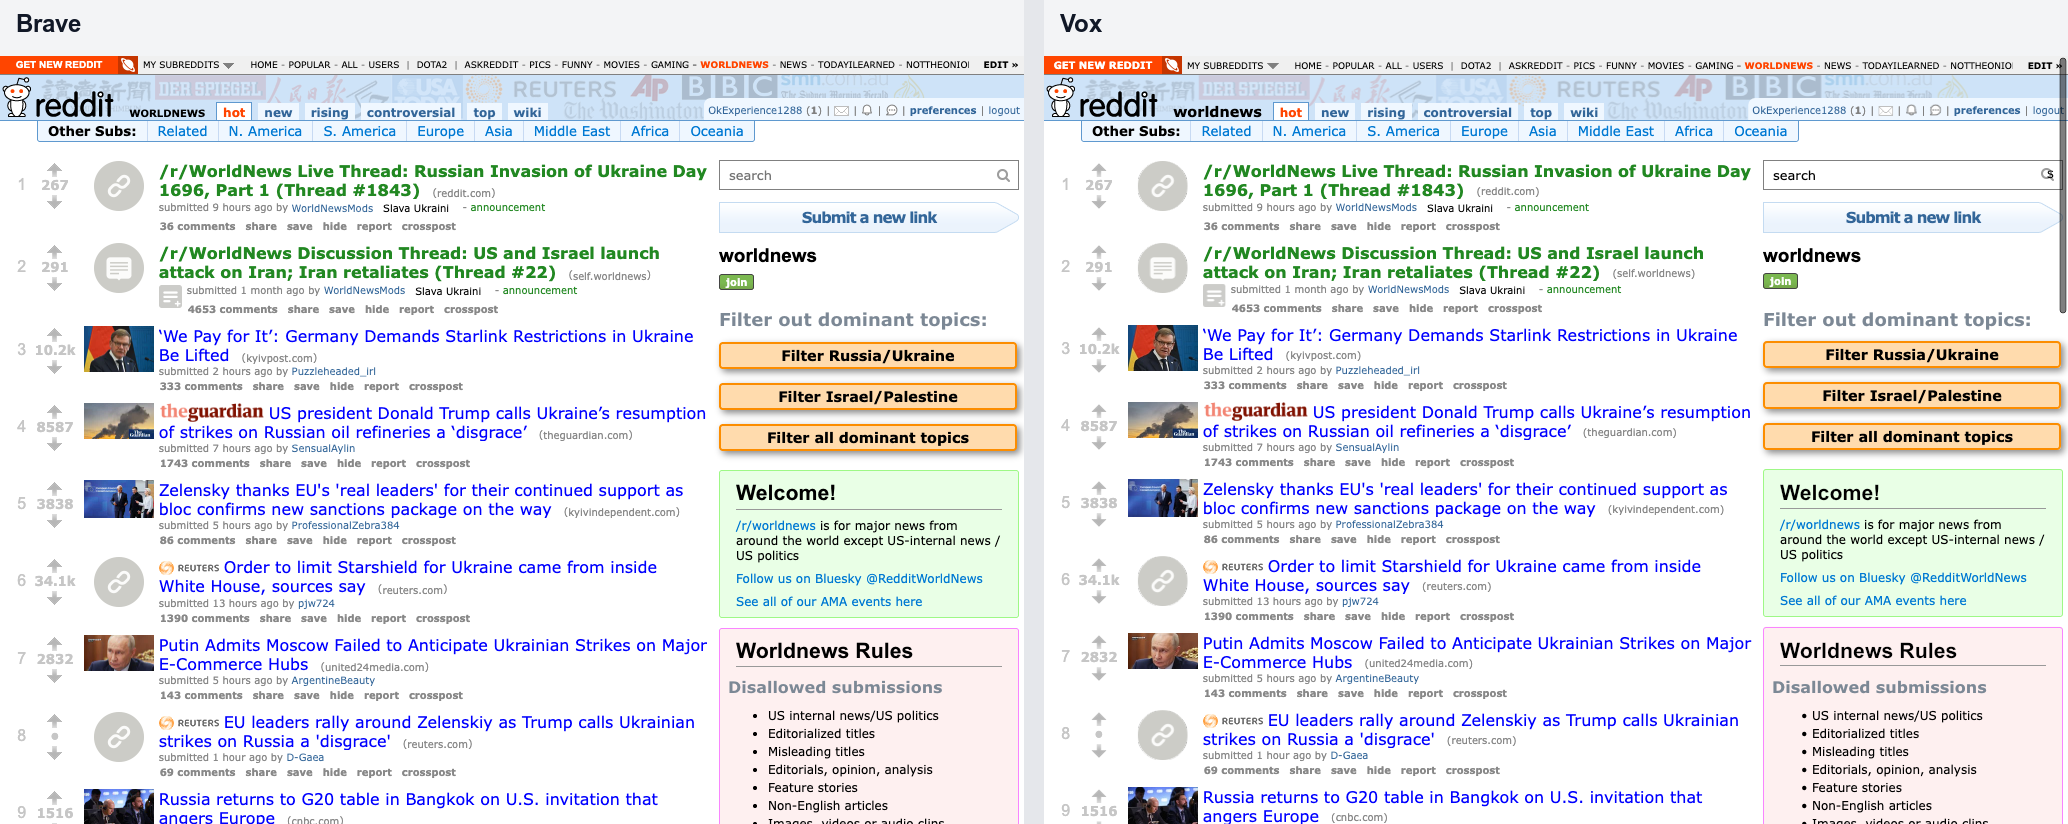
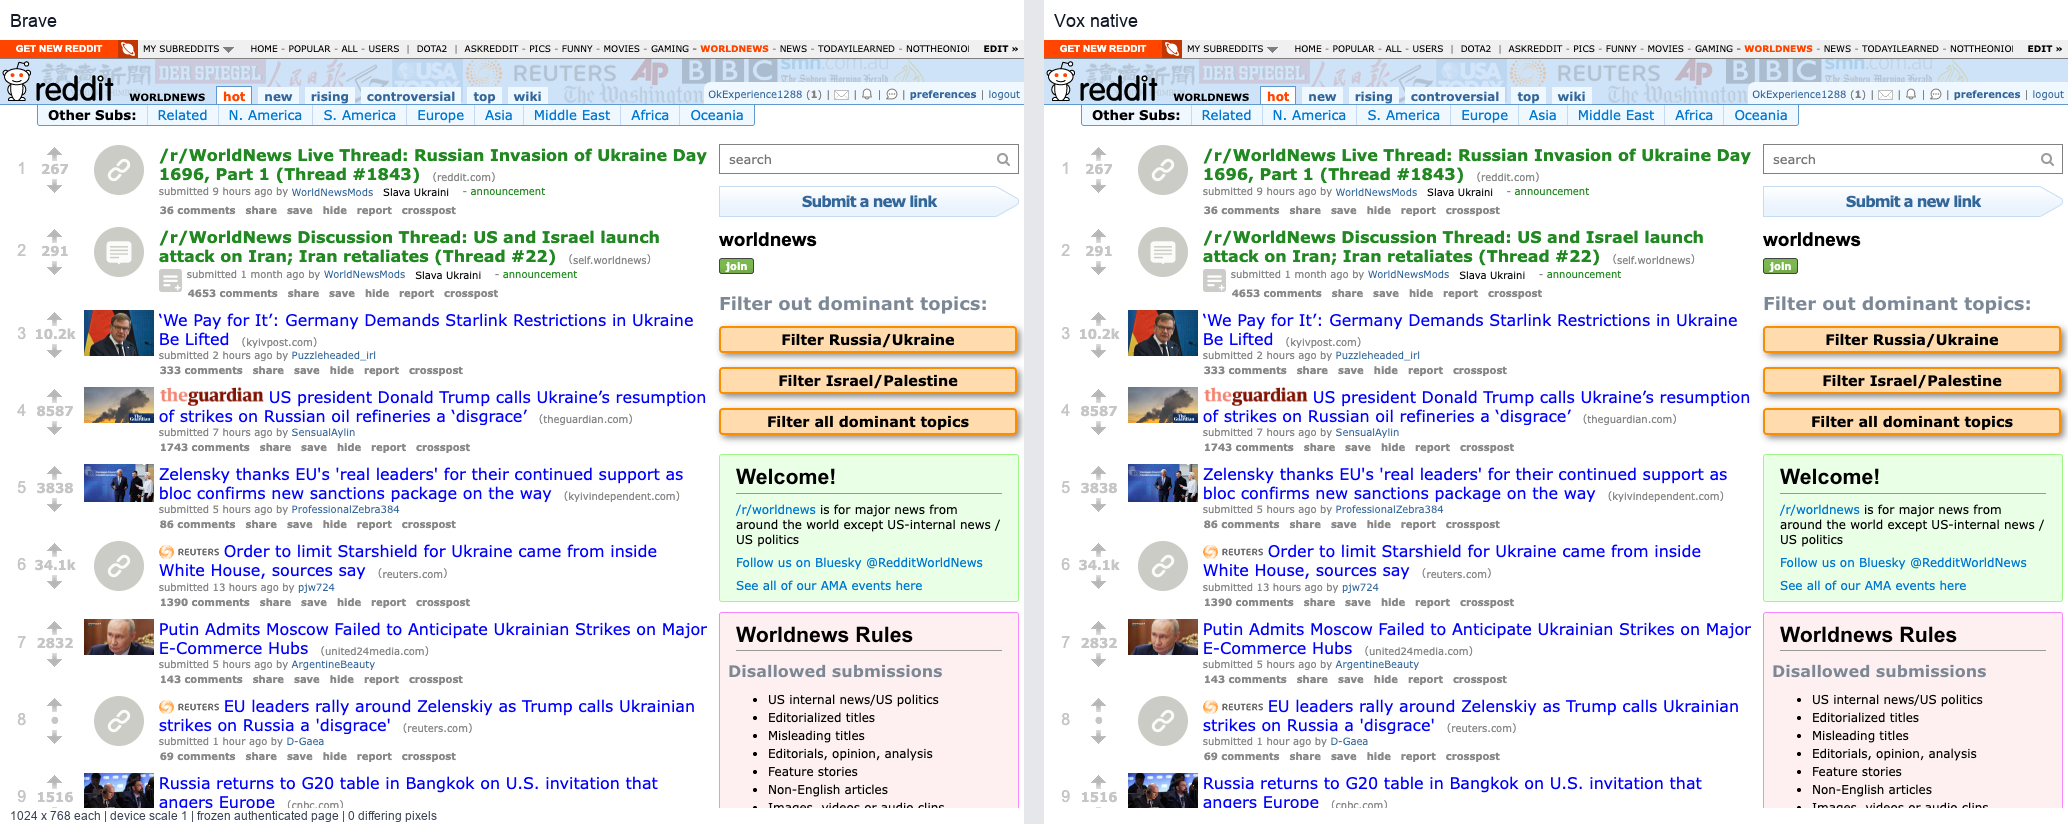
Document exact Brave parity for the captured Reddit viewport

diff --git a/docs/OLD_REDDIT_BRAVE_PARITY.md b/docs/OLD_REDDIT_BRAVE_PARITY.md
@@ -1,19 +1,89 @@
 # Old Reddit rendering against Brave
 
-**Exact Brave pixel equality remains unachieved.** The authenticated, frozen
-1024×768 comparison differs at 141,439 of 786,432 pixels (17.9849%).
-The comparison uses the native V renderer. No reference image is substituted
-for the rendered page, and no existing screenshot tolerance is increased.
+The signed production Vox renderer matches the authenticated frozen Brave
+reference at **every pixel: 0 / 786,432 differences**. Both document viewports
+are 1024×768 at device scale 1. The comparison includes the full viewport,
+with exact RGBA equality and no tolerance or excluded regions.
 
 ![Brave on the left and Vox on the right](images/old-reddit-brave-vox.png)
 
+## Scope and reproduction
+
+The reference is Brave 155.1.97.57 on macOS. The authenticated Brave DOM was
+frozen, executable script elements removed, and its original document base URL
+installed. Both browsers render that same HTML with its styles and resources.
+This keeps changing post scores and timestamps out of the comparison. The
+result establishes equality for this captured viewport, rather than general
+Brave equivalence across live scripts, interactions, viewports, or platforms.
+
+The native Cocoa document viewport is captured without browser chrome on the
+test display away from the pointer. Its pixels are never replaced by the
+reference. The saved side-by-side image contains both captures at their
+original pixel dimensions.
+
+Private account-bearing inputs and diagnostic artifacts remain under ignored,
+mode-0700 `Build/reddit-parity/`. The canonical files are `frozen.html`,
+`brave-frozen.png`, `vox-production.png`, `production.diff.png`,
+`production.metrics.txt`, and `production-result.json`.
+
+```sh
+sh build-prod-browser.sh
+./capture_screenshot.sh Build/reddit-parity/frozen.html \
+  Build/reddit-parity/vox-production.png 1024 768
+python3 tools/check_pixel_equality.py \
+  Build/reddit-parity/brave-frozen.png \
+  Build/reddit-parity/vox-production.png \
+  Build/reddit-parity/production.diff.png \
+  --result Build/reddit-parity/production-result.json
+```
+
+The gate exits nonzero for any differing RGBA pixel. Public, synthetic
+regressions and Brave references are in
+[`Tests/Browser/Brave`](../Tests/Browser/Brave/README.md). The older
+`old-reddit-worldnews` fixture remains a separate archived Ladybird comparison;
+its reference and allowances have not changed.
+
+## Rendering changes
+
+Native old.reddit.com documents, including saved documents with that explicit
+base URL, select the Chromium compatibility policy. Other documents retain
+the translated LibWeb policy. The changes cover:
+
+- Chromium font keyword sizes, fractional font metrics and glyph advances,
+  normal line heights, font smoothing, and sRGB text compositing.
+- Typed CSS length truncation, cumulative shaped-item advance rounding,
+  fitting and wrapping, and shared Latin shaping across word boundaries and
+  LTR directional isolates.
+- Line and inline-box paint origins at fractional offsets, outside list marker
+  geometry, default form fonts, placeholders, and explicit empty input labels.
+- Image request initialization, orientation, WebP YUV decoding, CPU plane
+  resizing, GPU upload dimensions, and color conversion.
+- Analytic rounded borders, opaque background and shadow overlap, GPU rounded
+  image clips, preceding repeated-image tiles, and negative half-pixel sprite
+  origins. These preserve unscaled sprite texels and rounded corner coverage.
+- Native overlay scrollbar visibility and fading after interaction.
+
+Chromium-compatible shadows, image sampling and rounded shapes use an isolated,
+pinned Skia 155 Metal backend. Its C ABI exchanges pixels and plain values;
+hidden Skia symbols keep it separate from LibWeb's existing Skia library.
+The verified dependency is cached under `Build/deps/skia-brave`; see
+[`tools/build_mac_graphite.py`](../tools/build_mac_graphite.py).
+
+Relevant Chromium sources include
+[box background bleed avoidance](https://chromium.googlesource.com/chromium/src/+/155.0.8059.80/third_party/blink/renderer/core/paint/box_decoration_data.cc),
+[border painting](https://chromium.googlesource.com/chromium/src/+/155.0.8059.80/third_party/blink/renderer/core/paint/box_border_painter.cc),
+[inline background painting](https://chromium.googlesource.com/chromium/src/+/155.0.8059.80/third_party/blink/renderer/core/paint/inline_box_fragment_painter.cc),
+and [image upload sizing](https://chromium.googlesource.com/chromium/src/+/155.0.8059.80/cc/tiles/gpu_image_decode_cache.cc).
+
 ## Authentication
 
-The account owner's existing Brave Reddit cookies were imported explicitly.
-An isolated Brave instance decrypted only Reddit's copied cookie records;
-the original Brave profile was left unchanged. An authenticated request to
-`https://old.reddit.com/r/worldnews/` returned HTTP 200, and the native Vox
-capture displayed the logged-in account and post thumbnails.
+The account owner's Brave Reddit cookies were explicitly imported through an
+isolated Brave profile. The original profile remains unchanged. The frozen
+reference and native capture contain the authenticated page. Cookie values,
+the cookie database and private HTML are excluded from commits. A fresh live
+check on 2026-10-16 returned a block page in isolated Brave and HTTP 403
+outside the browser. Current live login could therefore not be revalidated;
+this does not change the authenticated frozen comparison.
 
 To refresh the imported session after signing in through Brave:
 
@@ -23,88 +93,28 @@ open -n Build/v/Vox.app --args https://old.reddit.com/r/worldnews/
 ```
 
 The importer writes `~/Library/Application Support/Vox/imported-cookies.txt`
-with mode 0600. It does not print cookie values or access the account password.
-Temporary Brave profiles are removed after use. The runtime reads this
+with mode 0600. It prints no cookie values and accesses no account password.
+Temporary import profiles are removed after use. The runtime reads this
 Netscape-format jar on each request. `VOX_COOKIE_FILE` selects another jar;
 an explicitly empty value disables import for that process.
 
 Imported cookies retain domain/host-only, path, expiry, Secure and HttpOnly
-attributes. Since Netscape files cannot retain SameSite or partition keys,
-the importer excludes partitioned cookies and the runtime sends imported
-cookies only in a same-site context. This is a read-only import, rather than
-a complete persistent cookie store or a replacement for DOM cookie APIs.
-
-## Implemented changes
-
-- The HTTP compatibility adapter now sends an explicit Cookie header even
-  when V's separate cookie map is empty. Duplicate cookie names and their wire
-  order are retained.
-- Native old.reddit.com documents select Chromium's default font-size keyword
-  tables, including its 10px `x-small` size. Saved documents with an explicit
-  old.reddit.com base URL use the same setting. Other documents retain the
-  translated LibWeb defaults. The source of the compatibility tables is
-  [Chromium FontSizeFunctions](https://chromium.googlesource.com/chromium/src/+/main/third_party/blink/renderer/core/css/font_size_functions.cc).
-- HTML image requests are initialized even when the page has no JavaScript
-  runtime. Existing hidden-image background preloads remain deferred until
-  their transfers complete.
-- A formatting context's positive margins overlap adjacent float intrusions
-  on the corresponding side. Reddit's post text column consequently retains
-  its missing 3px, restoring the reference headline wrapping. Focused Brave
-  measurements also cover margins larger than the float, opposite-side
-  margins, and negative margins. This is an intentional compatibility
-  difference from the current upstream float width calculation.
-
-## Comparison and remaining differences
-
-The local evidence is under ignored `Build/reddit-parity/`, which has private
-directory permissions because the captured page contains account information.
-The reference is Brave 155.1.97.57. Both document captures use 1024×768 at
-device scale 1 on the test display away from the pointer; browser chrome is
-excluded.
-
-The authenticated Brave DOM was frozen, executable script elements removed,
-and its original document base URL installed. Both browsers render that same
-HTML and its styles/resources. This removes changing post scores and timestamps
-from the diagnostic; it does not establish equivalence of live script execution
-or account interactions.
-
-| Capture | Differing pixels | Percentage |
-| --- | ---: | ---: |
-| Before fixes | 254,304 | 32.3364% |
-| Font sizes and static images | 173,668 | 22.0830% |
-| Signed production, including float margins | 141,439 | 17.9849% |
-
-`brave-frozen.png` and `vox-production.png` are the final reference and native
-document captures; `production.diff.png`, `production.metrics.txt`, and
-`production-result.json` retain the amplified differences and failed exact
-verdict. The production output matches the corresponding development capture
-exactly. Remaining differences include text rasterization and fractional line
-geometry, control styling, and scrollbar presentation. A trial with rounded
-text metrics increased the differing-pixel count and was reverted.
-
-The zero-tolerance check exits 1 for the current pair:
-
-```sh
-python3 tools/check_pixel_equality.py \
-  Build/reddit-parity/brave-frozen.png \
-  Build/reddit-parity/vox-production.png \
-  Build/reddit-parity/production.diff.png \
-  --result Build/reddit-parity/production-result.json
-```
-
-The older `old-reddit-worldnews` site fixture remains an archived, logged-out
-Ladybird comparison. Its reference and allowances have not been changed and
-must not be used as evidence of Brave parity.
+attributes. Netscape files cannot retain SameSite or partition keys, so
+partitioned cookies are excluded and imported cookies are sent only in a
+same-site context. This read-only import does not implement a complete
+persistent cookie store or replace DOM cookie APIs.
 
 ## Validation
 
-The HTTP adapter's wire checks, four imported-cookie tests, three session
-importer tests, two CSS font-policy tests, native navigation policy test,
-three static-image tests, and three float-margin tests pass. Font policy,
-static images, and float margins were also exercised with `-gc none`.
-The existing formatting-context regression suite passes. The exact-pixel
-gate's real PNG tests reject both a one-channel difference of 1 and an alpha
-difference of 1. Signed production build and native startup smoke pass.
-All eleven default screenshot smoke comparisons pass under their existing,
-unchanged acceptance rules; these are separate from the failed Brave exact
-comparison.
+The signed production capture passes the exact-pixel gate. All twelve public
+Brave fixtures also pass exact RGBA comparisons, including fonts, backgrounds,
+WebP images, shadows, text shaping, markers, and bitmap sprites. Relevant
+layout and geometry checks pass, including focused ownership runs with
+`-gc none`. The native Skia clip checks, bundle signature verification and
+headless startup smoke pass. All eleven default screenshot smoke comparisons
+pass under their existing acceptance rules.
+
+The browser continues to use JavaScriptCore. This screenshot result does not
+establish full LibJS parity. Translucent-group shadow compositing remains a
+separate diagnostic with five one-channel differences of 1; it is outside the
+captured page and the opaque-shadow fixture.
